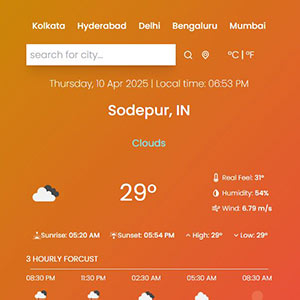
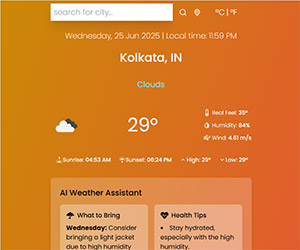
update WeatherAi prject

diff --git a/src/constants/index.js b/src/constants/index.js
@@ -58,11 +58,11 @@ export const PROJECTS = [
     link: "https://github.com/Mohit940m/Full-Stack-contact-list-using-Flask" 
   },
   {
-    title: "Weather App",
+    title: "Weather AI App",
     image: project3,
     description:
-      "Built a responsive weather application with a mobile-compatible UI, providing real-time weather data using the OpenWeather API.",
-    technologies: ["React.js", "Tailwind CSS", "OpenWeather API"],
+      "Built a responsive weather application with a mobile-compatible UI, providing real-time weather data using the OpenWeather API and Gemini AI for enhanced user experience. The app features a clean design with Tailwind CSS and is fully functional on both desktop and mobile devices.",
+    technologies: ["React.js", "Tailwind CSS", "OpenWeather API", "Gemini AI"],
     link: "https://weather-app-react-chi-ten.vercel.app/" 
   },
   {
